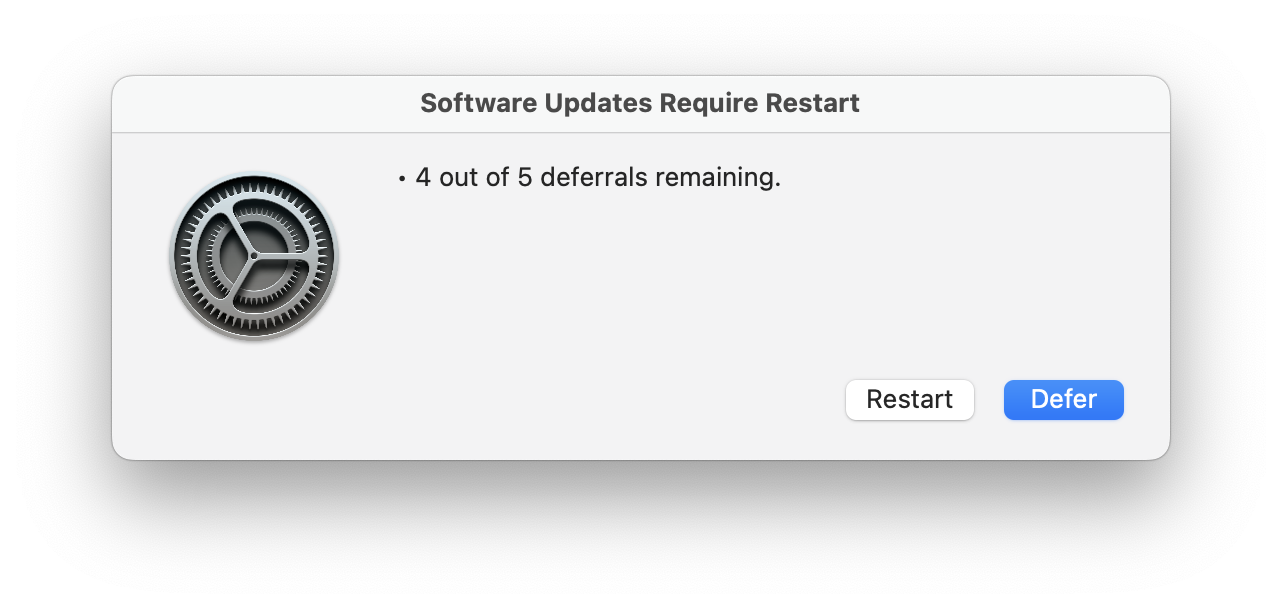
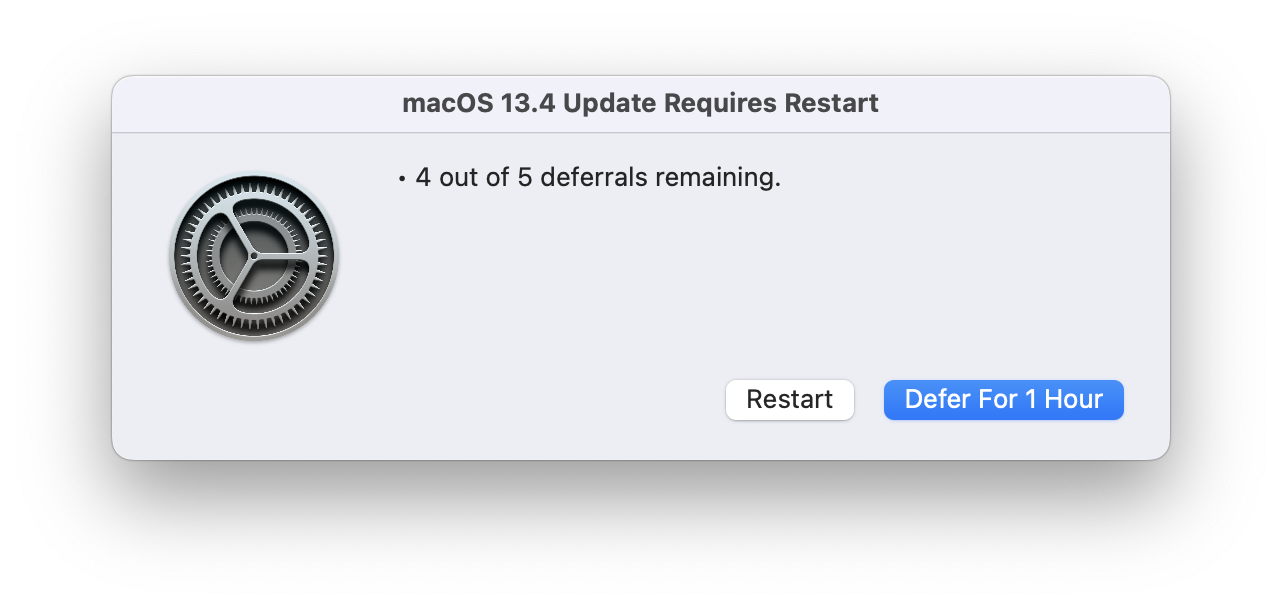
3.0rc2

Changed region(s): [[0.5616, 0.625, 0.8736, 0.7188], [0.312, 0.1562, 0.6864, 0.1875]]

diff --git a/CHANGELOG.md b/CHANGELOG.md
@@ -1,5 +1,15 @@
 # CHANGELOG
 
+## [3.0rc2]
+
+2023-05-30
+
+- [The Wiki has finally been updated with a first draft for `super` version 3!](https://github.com/Macjutsu/super/wiki)
+- Added a bit of additional verbose mode logging.
+- Resolved an issue that prevented the correct number of days from showing in the soft days deadline user authentication dialog.
+- Resolved an issue that was unnecessarily deleting update and upgrade cache information. (Thanks to @gzilla13 for finding this one!)
+- `super` 3.0rc2 SHA-256: 8999783b7fd29e43360b167a61d7e566b0de9be89e7d5c6cca2d3bf7112a593c
+
 ## [3.0rc1]
 
 2023-05-18
@@ -153,15 +163,6 @@
 	- If you specify a URL for either help or warning buttons, the URL will open in another application. Supported URL types are; http://, https://, mailto:, and jamfselfservice://. If a specified web URL cannot be found then the button will not be shown.
 - New `--display-silently` option will open all IBM Notifier dialogs and notifications without playing the system warning sound (jamfHelper dialogs and notifications do not support this option).
 - New Defer button will show the deferral time for IBM Notifier interactive dialogs and notifications (jamfHelper dialogs and notifications do not support this option). However, if the `--menu-defer=` option is also specified, then the default button will not show the deferral time as it's already displayed in the deferral pop-up menu.
-	- `--display-accessory-type=VIDEOAUTO` display a video that auto-plays inside the interactive dialogs.
-	- The `--display-accessory-content=/local/path or URL` option can accept both a local path or a web URL. If the specified local path or URL can not be found then the custom display accessory is not shown.
-	- The Super-Friends folder now contains several [display accessory examples](https://github.com/Macjutsu/super/tree/main/Super-Friends).
-- New `--help-button=plain text or URL` option allows you to specify a [help button for IBM Notifier](https://raw.githubusercontent.com/IBM/mac-ibm-notifications/main/Images/Popup/popup.png) interactive dialogs (jamfHelper dialogs do not support this option).
-- New `--warning-button=plain text or URL` option allows you to specify a [warning button for IBM Notifier](https://raw.githubusercontent.com/IBM/mac-ibm-notifications/main/Images/Popup/popup.png) interactive dialogs (jamfHelper dialogs do not support this option).
-	- If you specify a plain text string for either help or warning buttons, a pop-up appears when the user selects the button.
-	- If you specify a URL for either help or warning buttons, the URL opens in another application. Supported URL types are; http://, https://, mailto:, and jamfselfservice://. If the specified web URL cannot be found then the button is not be shown.
-- New `--display-silently` option opens all IBM Notifier dialogs and notifications without playing the system warning sound (jamfHelper dialogs and notifications do not support this option).
-- New Defer button shows the deferral time for IBM Notifier interactive dialogs and notifications (jamfHelper dialogs and notifications do not support this option). However, if the `--menu-defer=` option is also specified, then the default button does not show the deferral time as it's already displayed in the deferral pop-up menu.
 - When using the `--test-mode` option with the self-update workflow the failure dialog is now also displayed (for testing validation).
 - Improved Apple Silicon self-update/upgrade workflow notification dialogs describe required actions more accurately.
 - Resolved an issue where the Apple Silicon self-update/upgrade workflow was not opening the correct application for macOS 12.3 or newer.
